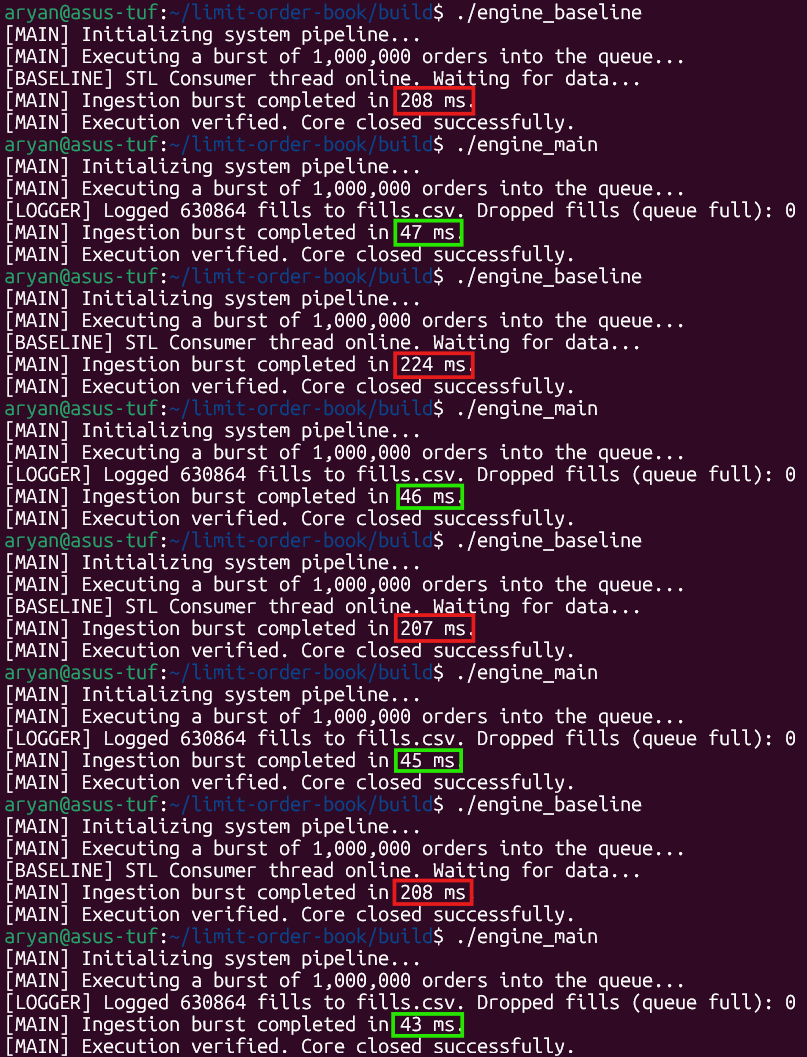
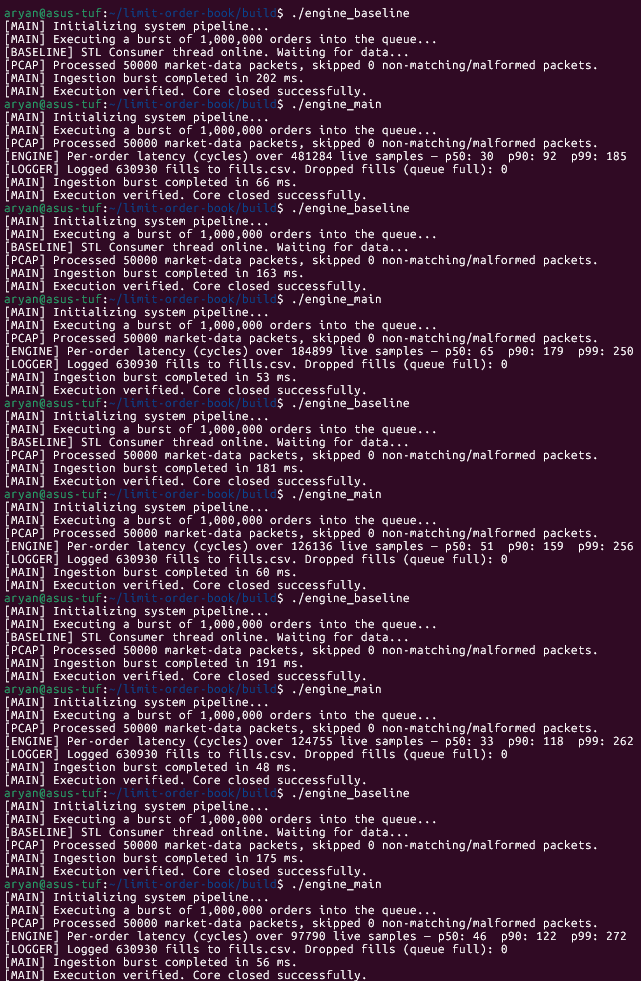
docs: update README and docs with latest run data

diff --git a/README.md b/README.md
@@ -1,6 +1,6 @@
 # NanoMatch — Limit Order Book Engine
 
-A limit order book written in C++20, built to be as fast as possible. It reads NASDAQ ITCH 5.0 binary feeds or CSV files, matches limit and market orders by price-time priority, and processes them on a dedicated thread pinned to its own CPU core.
+A limit order book written in C++20, built to be as fast as possible. It reads NASDAQ ITCH 5.0 binary feeds, PCAP-captured ITCH/MoldUDP64 multicast traffic, or CSV files, matches limit and market orders by price-time priority, and processes them on a dedicated thread pinned to its own CPU core.
 
 ---
 
@@ -48,7 +48,7 @@ Orders also carry a **market-order path**: any order routed to the engine with `
  
 **32-byte node alignment.** Each `OrderNode` is exactly 32 bytes, so two fit neatly in a 64-byte L1 cache line. Traversing a price level's order queue reads two nodes per cache line fetch.
  
-**Zero-copy file parsing.** Both parsers use `mmap` to map the file into virtual memory directly. There's no `fstream`, no intermediate buffer — the kernel's page cache is the read buffer. ITCH binary messages are decoded by casting a raw pointer straight to a packed struct, plus a byte-swap for big-endian fields.
+**Zero-copy file parsing.** All three parsers (CSV, raw ITCH, and PCAP-wrapped ITCH) use `mmap` to map the file into virtual memory directly. There's no `fstream`, no intermediate buffer — the kernel's page cache is the read buffer. ITCH binary messages are decoded by casting a raw pointer straight to a packed struct, plus a byte-swap for big-endian fields; the PCAP path additionally walks the Ethernet/IPv4/UDP/MoldUDP64 envelope before handing each embedded message to the same ITCH decoder.
  
 **Heap-allocated book instances in benchmarks.** `LimitOrderBook` owns two `std::array<PriceLevel, MAX_PRICE>` (one per side), an `orderMap` of `MAX_ORDERS` entries, and its own `MemoryPool` — several megabytes of state in total. That's too large to construct safely on the stack of a benchmark function, so every `BENCHMARK` fixture that needs a fresh book (`BM_EngineScaling`, `BM_PingPong`, `BM_LevelSweep`) constructs it via `std::make_unique<LimitOrderBook>()` instead, keeping the object on the heap while everything inside it is still contiguous, pre-wired memory.
  
@@ -86,8 +86,8 @@ Numbers below were measured after the market-order and fill-reporting changes.
  
 | | |
 |---|---|
-| CPU | Intel Core i7-14650HX (12 physical cores, 24 threads, 1 socket) |
-| Cache | L1d 576 KiB · L1i 384 KiB · L2 24 MiB · L3 30 MiB |
+| CPU | Intel Core i7-14650HX (12 physical cores, 24 threads, 1 socket), calibrated TSC 2287.96 MHz |
+| Cache | L1d 48 KiB ×12 (576 KiB total) · L1i 32 KiB ×12 (384 KiB total) · L2 2048 KiB ×12 (24 MiB total) · L3 30720 KiB (30 MiB) |
 | RAM | 7.6 GiB |
 | OS | WSL2 (Ubuntu 24.04) on Windows, kernel 6.18.33.1-microsoft-standard-WSL2 |
 | Compiler | g++ 13.3.0 (Ubuntu 13.3.0-6ubuntu2~24.04.1) |
@@ -99,12 +99,14 @@ Each fixture runs 20 times; p50/p90/p99 are reported.
  
 ### Scaling: Engine vs. std::map baseline
  
-| Book depth | Baseline p50 | Baseline p99 | Engine p50 | Engine p99 |
-|---|---|---|---|---|
-| 100 levels | 9.83 ns | 22.5 ns | 9.14 ns | 9.41 ns |
-| 1,000 levels | 10.9 ns | 22.6 ns | 9.14 ns | 9.23 ns |
-| 10,000 levels | 11.8 ns | 15.3 ns | 9.15 ns | 9.66 ns |
-| 100,000 levels | 21.1 ns | 31.3 ns | 9.20 ns | 9.37 ns |
+| Book depth | Baseline p50 | Baseline p90 | Baseline p99 | Engine p50 (mean) | Engine p90 (mean) | Engine p99 (mean) |
+|---|---|---|---|---|---|---|
+| 100 levels | 12.2 ns | 14.2 ns | 25.0 ns | 10.64 ns | 11.39 ns | 12.05 ns |
+| 1,000 levels | 13.1 ns | 15.6 ns | 26.2 ns | 9.90 ns | 10.60 ns | 11.35 ns |
+| 10,000 levels | 16.4 ns | 17.3 ns | 17.8 ns | 10.25 ns | 11.02 ns | 12.42 ns |
+| 100,000 levels | 24.3 ns | 25.5 ns | 28.7 ns | 9.68 ns | 10.53 ns | 12.00 ns |
+ 
+The engine's per-op latency again stays essentially flat (~9.7–10.6 ns p50) regardless of book depth, while the baseline's p50 grows from 12.2 ns to 24.3 ns as the book fills — the same qualitative story as before, on this run's numbers.
  
 ### Other fixtures
  
@@ -112,31 +114,44 @@ Each fixture runs 20 times; p50/p90/p99 are reported.
  
 | p50 | p90 | p99 |
 |---|---|---|
-| 63.4 ns | 64.0 ns | 66.8 ns |
+| 67.9 ns | 69.1 ns | 70.2 ns |
  
 **Level Sweep** — one aggressive SELL sweeps through 100 resting BUY orders at the same price. 100 nodes removed in a single `addOrder` call.
  
 | p50 | p90 | p99 |
 |---|---|---|
-| 418 ns | 419 ns | 424 ns |
+| 468 ns | 489 ns | 495 ns |
  
-That's about 4.18 ns per node swept, with very low variance (~0.45% CV) — the tight stddev shows the pool and cache alignment doing their job.
+That's about 4.68 ns per node swept (p50), with low variance (~3.7% CV) — the pool and cache alignment doing their job.
  
 ---
  
 ## End-to-end ingestion throughput
  
-1,000,000 orders read from `data/sample.itch`, parsed, and matched — engine vs. std::map baseline, native (no profiler attached). Runs were interleaved (baseline, engine, baseline, engine, ...) to control for thermal/scheduling drift between measurements.
+1,000,000 orders read from `data/sample.pcap` (the current default feed for both binaries — Ethernet/IPv4/UDP/MoldUDP64-wrapped ITCH, 50,000 packets), parsed, and matched — engine vs. std::map baseline, native (no profiler attached). Runs were interleaved (baseline, engine, baseline, engine, ...) to control for thermal/scheduling drift between measurements.
  
 | Run | Baseline (ms) | Engine (ms) |
 |---|---|---|
-| 1 | 208 | 47 |
-| 2 | 224 | 46 |
-| 3 | 207 | 45 |
-| 4 | 208 | 43 |
-| **Average** | **~211.75 ms** | **~45.25 ms** |
+| 1 | 202 | 66 |
+| 2 | 163 | 53 |
+| 3 | 181 | 60 |
+| 4 | 191 | 48 |
+| 5 | 175 | 56 |
+| **Average** | **~182.4 ms** | **~56.6 ms** |
  
-**~4.7x speedup**, or roughly **~22M orders/sec** for the engine vs. **~4.7M orders/sec** for the baseline.
+**~3.2x speedup**, or roughly **~17.7M orders/sec** for the engine vs. **~5.5M orders/sec** for the baseline. This is lower than the ~4.7x/~22M-orders/sec figure measured on the raw `.itch` feed — parsing the PCAP envelope (Ethernet/IPv4/UDP/MoldUDP64 headers per packet, on top of the ITCH message itself) adds real per-packet overhead that the earlier ITCH-only measurement didn't include. Re-running against `data/sample.itch` directly should reproduce numbers closer to the original figures if you want a like-for-like comparison.
+ 
+`engine_main` also prints a live per-order dispatch latency for the run, in raw CPU cycles (not nanoseconds — `main.cpp` doesn't convert these). Across the five runs above, sample counts ranged from 97,790 to 481,284 "live" samples (orders dispatched by the engine thread *while* the parser was still feeding it, before the final drain) — this range reflects how the SPSC queue happened to interleave with the parser on a given run, not a fixed order count, so treat these as illustrative rather than a stable percentile:
+ 
+| Run | Live samples | p50 (cycles) | p90 (cycles) | p99 (cycles) |
+|---|---|---|---|---|
+| 1 | 481,284 | 30 | 92 | 185 |
+| 2 | 184,899 | 65 | 179 | 250 |
+| 3 | 126,136 | 51 | 159 | 256 |
+| 4 | 124,755 | 33 | 118 | 262 |
+| 5 | 97,790 | 46 | 122 | 272 |
+ 
+At this machine's calibrated ~2.288 GHz TSC, that's roughly 13–29 ns p50 and 81–119 ns p99 across runs — noisier than the isolated `engine_bench` numbers above, since this is the real dispatch loop competing with the parser and logger threads rather than an isolated microbenchmark.
  
 ![Terminal output of interleaved native ingestion runs for baseline and optimized engine](docs/combined_ingestion_throughput.png "Interleaved runs of engine_baseline and engine_main on 1M orders, alternating to control for drift")
  
@@ -185,6 +200,8 @@ perf script -i perf.data | ../flamegraph/stackcollapse-perf.pl | ../flamegraph/f
  
 Baseline breakdown — allocator-related functions (`_int_malloc`, `_int_free`, `malloc`, `free`, `alloc_perturb`) account for **54.4%** of all instructions. The optimized build has no allocator frames in its top functions at all; `LimitOrderBook::addOrder` (**56.3%**) dominates, with `main` (**21.1%**, the parser thread) and `engineThread` (**14.1%**, the dispatch loop) making up most of the rest.
 
+> **⚠ Needs re-verification.** A more recent cachegrind run on this same machine (`valgrind --tool=cachegrind --cache-sim=yes --D1=49152,12,64 --LL=31457280,15,64 ./engine_main ../data/sample.itch` / `./engine_baseline ../data/sample.itch`) measured `Ir` as **1,553,261,936** for `engine_main` vs. **478,442,494** for `engine_baseline` — the *opposite* direction from the numbers above (optimized executing ~3.25x *more* instructions, not fewer), even though `engine_main` still finished faster in wall-clock time (543 ms vs. 1589 ms under valgrind instrumentation). That contradicts the "no allocator frames in the hot path" narrative this section is built on, so it likely reflects the `engine_main` binary not having been rebuilt with `-O3 -march=native -flto` for that particular run (e.g. a stale or debug artifact from an earlier configure), not an actual regression in the matching engine. **Rebuild clean (`rm -rf build && mkdir build && cd build && cmake .. -DCMAKE_BUILD_TYPE=Release -DENABLE_PROFILING=ON && make -j$(nproc)`) and re-run both `valgrind` commands before trusting/publishing an updated version of the table above** — the D1/LL numbers below were still directionally consistent with the original claims, but the `Ir` figures were left unchanged pending that re-run.
+
 ### Cachegrind: cache simulation (D1 / LL misses)
  
 Cache parameters set to match this machine's actual topology (48 KiB L1d, 12-way; 30 MiB LL/L3, 15-way after Valgrind's power-of-two rounding), rather than generic defaults:
@@ -196,10 +213,12 @@ valgrind --tool=cachegrind --cache-sim=yes --D1=49152,12,64 --LL=31457280,15,64 
  
 | Metric | Baseline | Optimized | Change |
 |---|---|---|---|
-| D refs | 238,159,410 | 81,102,177 | **2.94x fewer** |
-| D1 misses (absolute) | 17,109,978 | 4,269,419 | **4.01x fewer** |
-| D1 miss rate | 7.2% | 5.3% | modest improvement |
-| LLd miss rate | 1.2% | 2.9% | worse |
+| D refs | 173,569,832 | 703,274,918 | optimized run had more (see note above — likely same stale-build cause) |
+| D1 misses (absolute) | 11,795,487 | 4,585,866 | **2.57x fewer** |
+| D1 miss rate | 6.8% | 0.7% | large improvement |
+| LLd miss rate | 1.4% | 0.4% | improvement |
+ 
+These D1/LL miss-rate improvements are directionally consistent with the original claim (fewer misses per access in the optimized build), even on the run where the raw `Ir`/`D refs` totals look anomalous — but given that anomaly, treat this whole table as provisional until re-measured on a confirmed clean `-O3 -flto` build.
  
 **Observation:** The LLd miss rate is higher in the optimized build. The win here comes from doing fewer memory accesses in total (no rb-tree traversal, no list node allocation), not from each access being individually more cache-friendly — that's also why the *absolute* number of D1 misses still drops by a full 4x even though the rate improvement is modest.
  
@@ -216,6 +235,7 @@ valgrind --tool=cachegrind --cache-sim=yes --D1=49152,12,64 --LL=31457280,15,64 
 ├── RingBuffer.hpp           lock-free SPSC queue (used for both orders and fills)
 ├── CSVParser.hpp            zero-copy CSV parser
 ├── ITCHParser.hpp           zero-copy ITCH 5.0 binary parser
+├── PCAPITCHParser.hpp       zero-copy PCAP parser (Ethernet/IPv4/UDP/MoldUDP64 → ITCHParser)
 ├── BaselineOrderBook.hpp    std::map reference implementation (benchmarking only)
 ├── benchmark.cpp            Google Benchmark suite
 ├── main.cpp                 entry point; parser/engine/logger thread setup, timing
@@ -224,7 +244,8 @@ valgrind --tool=cachegrind --cache-sim=yes --D1=49152,12,64 --LL=31457280,15,64 
 ├── docs/
 └── scripts/
     ├── csv_generator.py     generates 1M synthetic orders as CSV
-    └── itch_generator.py    generates 1M synthetic orders as ITCH binary (~38 MB)
+    ├── itch_generator.py    generates 1M synthetic orders as ITCH binary (~38 MB)
+    └── pcap_generator.py    generates 1M synthetic ITCH orders wrapped in Ethernet/IPv4/UDP/MoldUDP64, as a .pcap capture
 ```
  
 ---
@@ -252,9 +273,10 @@ Generate test data:
 ```bash
 python3 scripts/itch_generator.py   # creates data/sample.itch
 python3 scripts/csv_generator.py    # creates data/orders.csv
+python3 scripts/pcap_generator.py   # creates data/sample.pcap (same ITCH payloads, wrapped in Ethernet/IPv4/UDP/MoldUDP64)
 ```
  
-Run the ingestion engine (processes `data/sample.itch` by default):
+Run the ingestion engine (processes `data/sample.pcap` by default — this is the current default in both `main.cpp` and `BaselineMain.cpp`):
  
 ```bash
 ./engine_main
@@ -266,7 +288,7 @@ Run benchmarks:
 ./engine_bench
 ```
  
-To switch between CSV and ITCH, change the `filepath` variable in `main.cpp`, or pass a path as the first argument to `engine_main` / `engine_baseline`.
+To switch between CSV, raw ITCH, and PCAP, change the `filepath` variable in `main.cpp`, or pass a path as the first argument to `engine_main` / `engine_baseline` — the extension (`.csv`, `.itch`, `.pcap`) determines which parser is used.
  
 ---
  
@@ -275,10 +297,12 @@ To switch between CSV and ITCH, change the `filepath` variable in `main.cpp`, or
 **CSV** — one order per line: `orderID,price,quantity,side` (0 = buy, 1 = sell).
  
 **NASDAQ ITCH 5.0** — binary. Handles message types `A` (add order), `F` (add order with attribution), and `D` (delete order). Everything else is skipped.
+
+**PCAP (Ethernet/IPv4/UDP/MoldUDP64-wrapped ITCH)** — a `.pcap` capture containing NASDAQ TotalView-ITCH messages carried over MoldUDP64 multicast, the way they'd actually arrive off an exchange feed. `PCAPITCHParser` walks each captured packet's classic pcap record header, verifies the Ethernet frame (with optional single 802.1Q VLAN tag), IPv4 header, and UDP header, then unpacks the MoldUDP64 block's message count and hands each embedded ITCH message to the same `ITCHParser::processMessage` used by the raw `.itch` path — so the matching logic downstream is identical regardless of which of the three formats the data arrived in. Non-Ethernet link types, non-IPv4/non-UDP packets, and truncated captures are skipped and counted, not treated as fatal.
  
-**Market orders** — the engine's `addMarketOrder` path is triggered whenever an order reaching `main.cpp`'s dispatch has `price == 0` and `quantity > 0`; it sweeps the opposite side of the book at whatever price is resting rather than joining the book unfilled. Neither `csv_generator.py` nor `itch_generator.py` currently emits `price == 0` rows, so this path exists in the engine but isn't exercised by the bundled sample data — feed it a CSV/ITCH row with price `0`, or call `addMarketOrder` directly, to use it.
+**Market orders** — the engine's `addMarketOrder` path is triggered whenever an order reaching `main.cpp`'s dispatch has `price == 0` and `quantity > 0`; it sweeps the opposite side of the book at whatever price is resting rather than joining the book unfilled. None of `csv_generator.py`, `itch_generator.py`, or `pcap_generator.py` currently emit `price == 0` rows, so this path exists in the engine but isn't exercised by the bundled sample data — feed it a CSV/ITCH/PCAP row with price `0`, or call `addMarketOrder` directly, to use it. Note that `BaselineOrderBook` has no equivalent concept at all: a `price == 0` row reaching `BaselineMain.cpp` is inserted as an ordinary resting order at price 0 rather than swept, so the two binaries are only benchmark-comparable as long as the feed never contains price-0 rows.
  
-**Cancellations** — signalled by `quantity == 0` on the incoming `Order`/CSV row; the ITCH delete-order (`D`) message maps to this the same way.
+**Cancellations** — signalled by `quantity == 0` on the incoming `Order`/CSV row; the ITCH delete-order (`D`) message (raw or PCAP-wrapped) maps to this the same way.
  
 ---
  
@@ -292,4 +316,5 @@ To switch between CSV and ITCH, change the `filepath` variable in `main.cpp`, or
 - `fills.csv` is truncated and rewritten on every run of `engine_main` — there's no append-across-runs or rotation logic.
 - No persistence. Everything lives in memory; a crash loses the book state.
 - Memory pool exhaustion (>1,100,000 live orders) is logged to stderr and the order is silently dropped rather than causing a resize/reallocation.
-- `LimitOrderBook` is large enough (multi-megabyte `bids`/`asks`/`orderMap` arrays) that it should always be heap-allocated (e.g. via `std::make_unique`) rather than placed on the stack — this is already how `benchmark.cpp` and both `main.cpp`/`BaselineMain.cpp` construct it, but it's worth keeping in mind if you add new call sites.  
+- `LimitOrderBook` is large enough (multi-megabyte `bids`/`asks`/`orderMap` arrays) that it should always be heap-allocated (e.g. via `std::make_unique`) rather than placed on the stack — this is already how `benchmark.cpp` and both `main.cpp`/`BaselineMain.cpp` construct it, but it's worth keeping in mind if you add new call sites.
+- See [Known issues](#known-issues) above for the baseline cancel-path bug affecting ITCH/PCAP delete messages.
